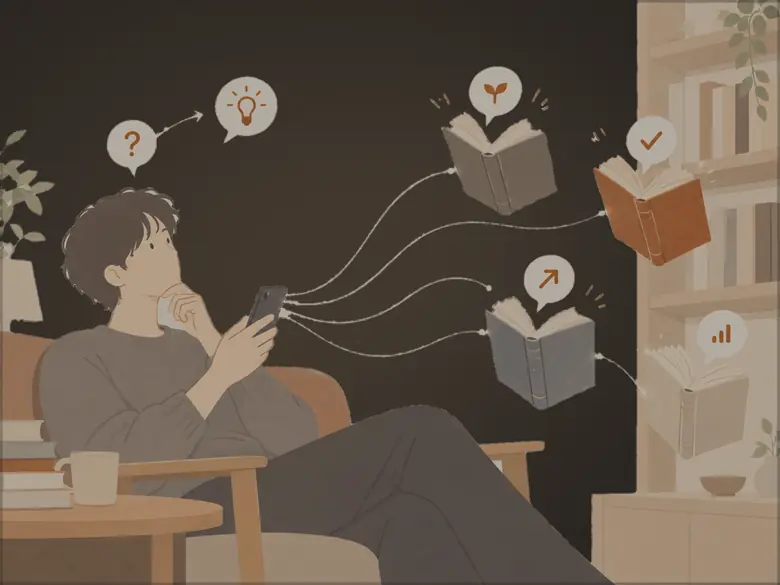
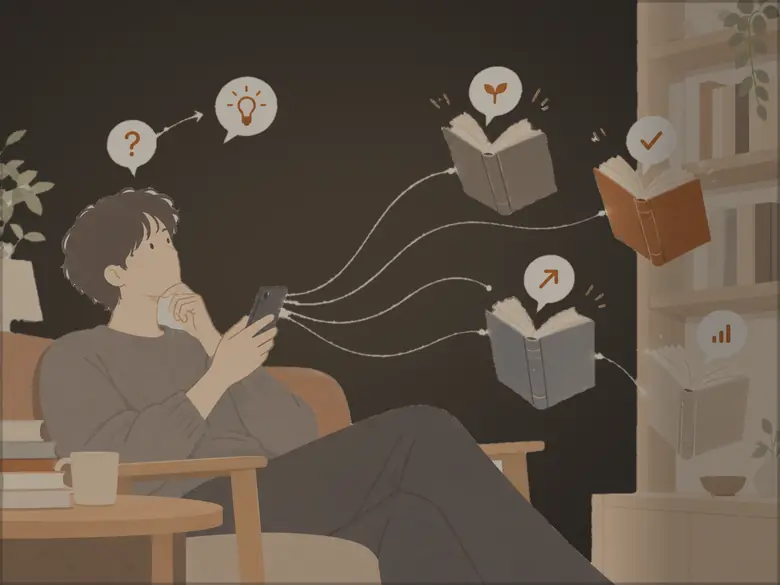
fix: LP の料金・物差し・有料プランの印・PC の QR を直し、作業用ブランチの Vercel のデプロイを止める
- 料金のカードは中身の高さ・物差しは 1 列・聞く相手の図を 36em に
- 「有料プラン」は月額・年額プランで使える 1 行・無料プランの 3 つめを短く
- PC は料金のボタンの右にも QR・暗い画面の絵の右端の本棚を 1 段暗く
- vercel.json: claude/* のブランチはデプロイしない（1 日 100 回の上限に当たった）

Claude-Session: https://claude.ai/code/session_01CJtCb5D8mXkG5XEeRMX4M7

Changed region(s): [[0.8, 0.0, 1.0, 1.0]]

diff --git a/src/pages/Landing.jsx b/src/pages/Landing.jsx
@@ -662,6 +662,8 @@ export default function Landing() {
               <h2 className="lp-h2" id="lp-more">ほかにできること</h2>
             </div>
             <FeatureTiles items={FEATURES} />
+            {/* 印「有料プラン」と料金のカードの名前をつなぐ（SPEC 2026-11-12・ui-critic 2026-11-23） */}
+            <p className="lp-more-plan-note">「有料プラン」は、月額・年額プランで使えます。</p>
           </div>
         </section>
 
@@ -703,7 +705,7 @@ export default function Landing() {
                   {/* li は flex（印と文を横に並べる）なので、文は 1 つの span に包む */}
                   <li><Check size="1.1em" strokeWidth={2.4} aria-hidden="true" /><span className="lp-wbr"><Phrases>本とメモは何件でも。AI を使わない機能は、すべて無料。</Phrases></span></li>
                   <li><Check size="1.1em" strokeWidth={2.4} aria-hidden="true" /><span>AI の相談：<span className="lp-nb">はじめの 2 か月は毎月 {FIRST_TALKS}、</span><wbr /><span className="lp-nb">そのあとは毎月 {FREE_TALKS}</span></span></li>
-                  <li><Check size="1.1em" strokeWidth={2.4} aria-hidden="true" /><span className="lp-wbr"><Phrases>使い切った月も、相談に関係するあなたのメモを、AI なしで並べて見せます</Phrases></span></li>
+                  <li><Check size="1.1em" strokeWidth={2.4} aria-hidden="true" /><span className="lp-wbr"><Phrases>使い切った月も、関係するメモを並べて見せます（AI なし）</Phrases></span></li>
                   <li><Check size="1.1em" strokeWidth={2.4} aria-hidden="true" /><span>ページの写真から文字に：<span className="lp-nb">毎月 {FREE_OCR_PER_MONTH} 回</span></span></li>
                 </ul>
               </div>
@@ -772,7 +774,11 @@ export default function Landing() {
             {/* ボタンは判断に要る情報（カード・1 日あたり・創業メンバー価格）を読み終えた所に 1 つ（2026-11-23 ui-critic）。名前は主ボタンと同じ */}
             {!PRELAUNCH && (
               <div className="lp-cta-block lp-pricing-cta">
-                <StoreCta className="lp-btn lp-btn-large" loc="pricing">{MAIN_CTA}</StoreCta>
+                {/* PC で決める瞬間にも手段を（2026-11-23 ui-critic）: ボタンの右に QR（タッチの端末では出さない） */}
+                <div className="lp-cta-row">
+                  <StoreCta className="lp-btn lp-btn-large" loc="pricing">{MAIN_CTA}</StoreCta>
+                  <StoreQr />
+                </div>
                 <p className="lp-cta-note">無料プランで始められます（iPhone）</p>
               </div>
             )}

diff --git a/src/pages/landing.css b/src/pages/landing.css
@@ -1299,7 +1299,7 @@ body.lp-active {
 .lp-root .lp-shot-note--lines span { display: block; word-break: keep-all; overflow-wrap: anywhere; }
 
 /* 📚 相談する相手の図（2026-11-15）: 線の絵 3 つ・間に細い線・押せる形にしない */
-.lp-partner-diagram { list-style: none; margin: var(--space-4) 0 0; padding: 0; display: grid; grid-template-columns: repeat(3, minmax(0, 1fr)); max-width: 30em; }
+.lp-partner-diagram { list-style: none; margin: var(--space-4) 0 0; padding: 0; display: grid; grid-template-columns: repeat(3, minmax(0, 1fr)); max-width: 36em; }
 .lp-partner-item { display: flex; flex-direction: column; align-items: flex-start; gap: var(--space-1); padding: 0 var(--space-3); border-left: 1px solid var(--separator); min-width: 0; }
 .lp-partner-item:first-child { padding-left: 0; border-left: none; }
 .lp-partner-icon { font-size: calc(var(--text-sub) * 1.75); color: var(--text); margin-bottom: var(--space-1); }
@@ -1445,9 +1445,22 @@ body.lp-active {
 .lp-root .lp-pricing-cost .lp-cost-eq { font-family: var(--font-ui); font-size: calc(var(--text-sub) * 2.4); color: var(--text-2); line-height: 1; }
 @media (min-width: 768px) {
   .lp-pricing-cost .lp-cost-diagram { border-top: none; margin-top: 0; padding-top: 0; }
-  .lp-plan-cards { align-items: stretch; }
 }
 /* 吹き出しの行の長さをそろえる */
 .lp-root .lp-chat-bubble .lp-chat-text { text-wrap: pretty; }
 /* リードの最後の行が数文字だけにならないように */
 .lp-root .lp-sec-lead { text-wrap: pretty; }
+
+/* 2026-11-23 ui-critic round 5 */
+/* 料金の物差し: 広い画面は 1 列（題 → 図 → 注記）にして、図と注記の間の空きをなくす */
+@media (min-width: 768px) {
+  .lp-pricing-cost { display: block; }
+  .lp-pricing-cost .lp-cost-diagram { margin-top: var(--space-6); max-width: 40em; }
+  .lp-pricing-cost .lp-cost-note { margin-top: var(--space-6); }
+}
+/* 料金のボタンの行（PC は右に QR） */
+.lp-pricing-cta .lp-cta-row { display: flex; flex-wrap: wrap; align-items: center; gap: var(--space-6); }
+.lp-pricing-cta .lp-cta-row .lp-btn { flex: 1 1 auto; }
+@media (min-width: 768px) { .lp-pricing-cta .lp-cta-row .lp-btn { flex: 0 0 auto; } }
+/* 「有料プラン」の印の説明 */
+.lp-root .lp-more-plan-note { margin: var(--space-6) 0 0; font-size: var(--text-sub); line-height: 1.5; color: var(--text-2); }
